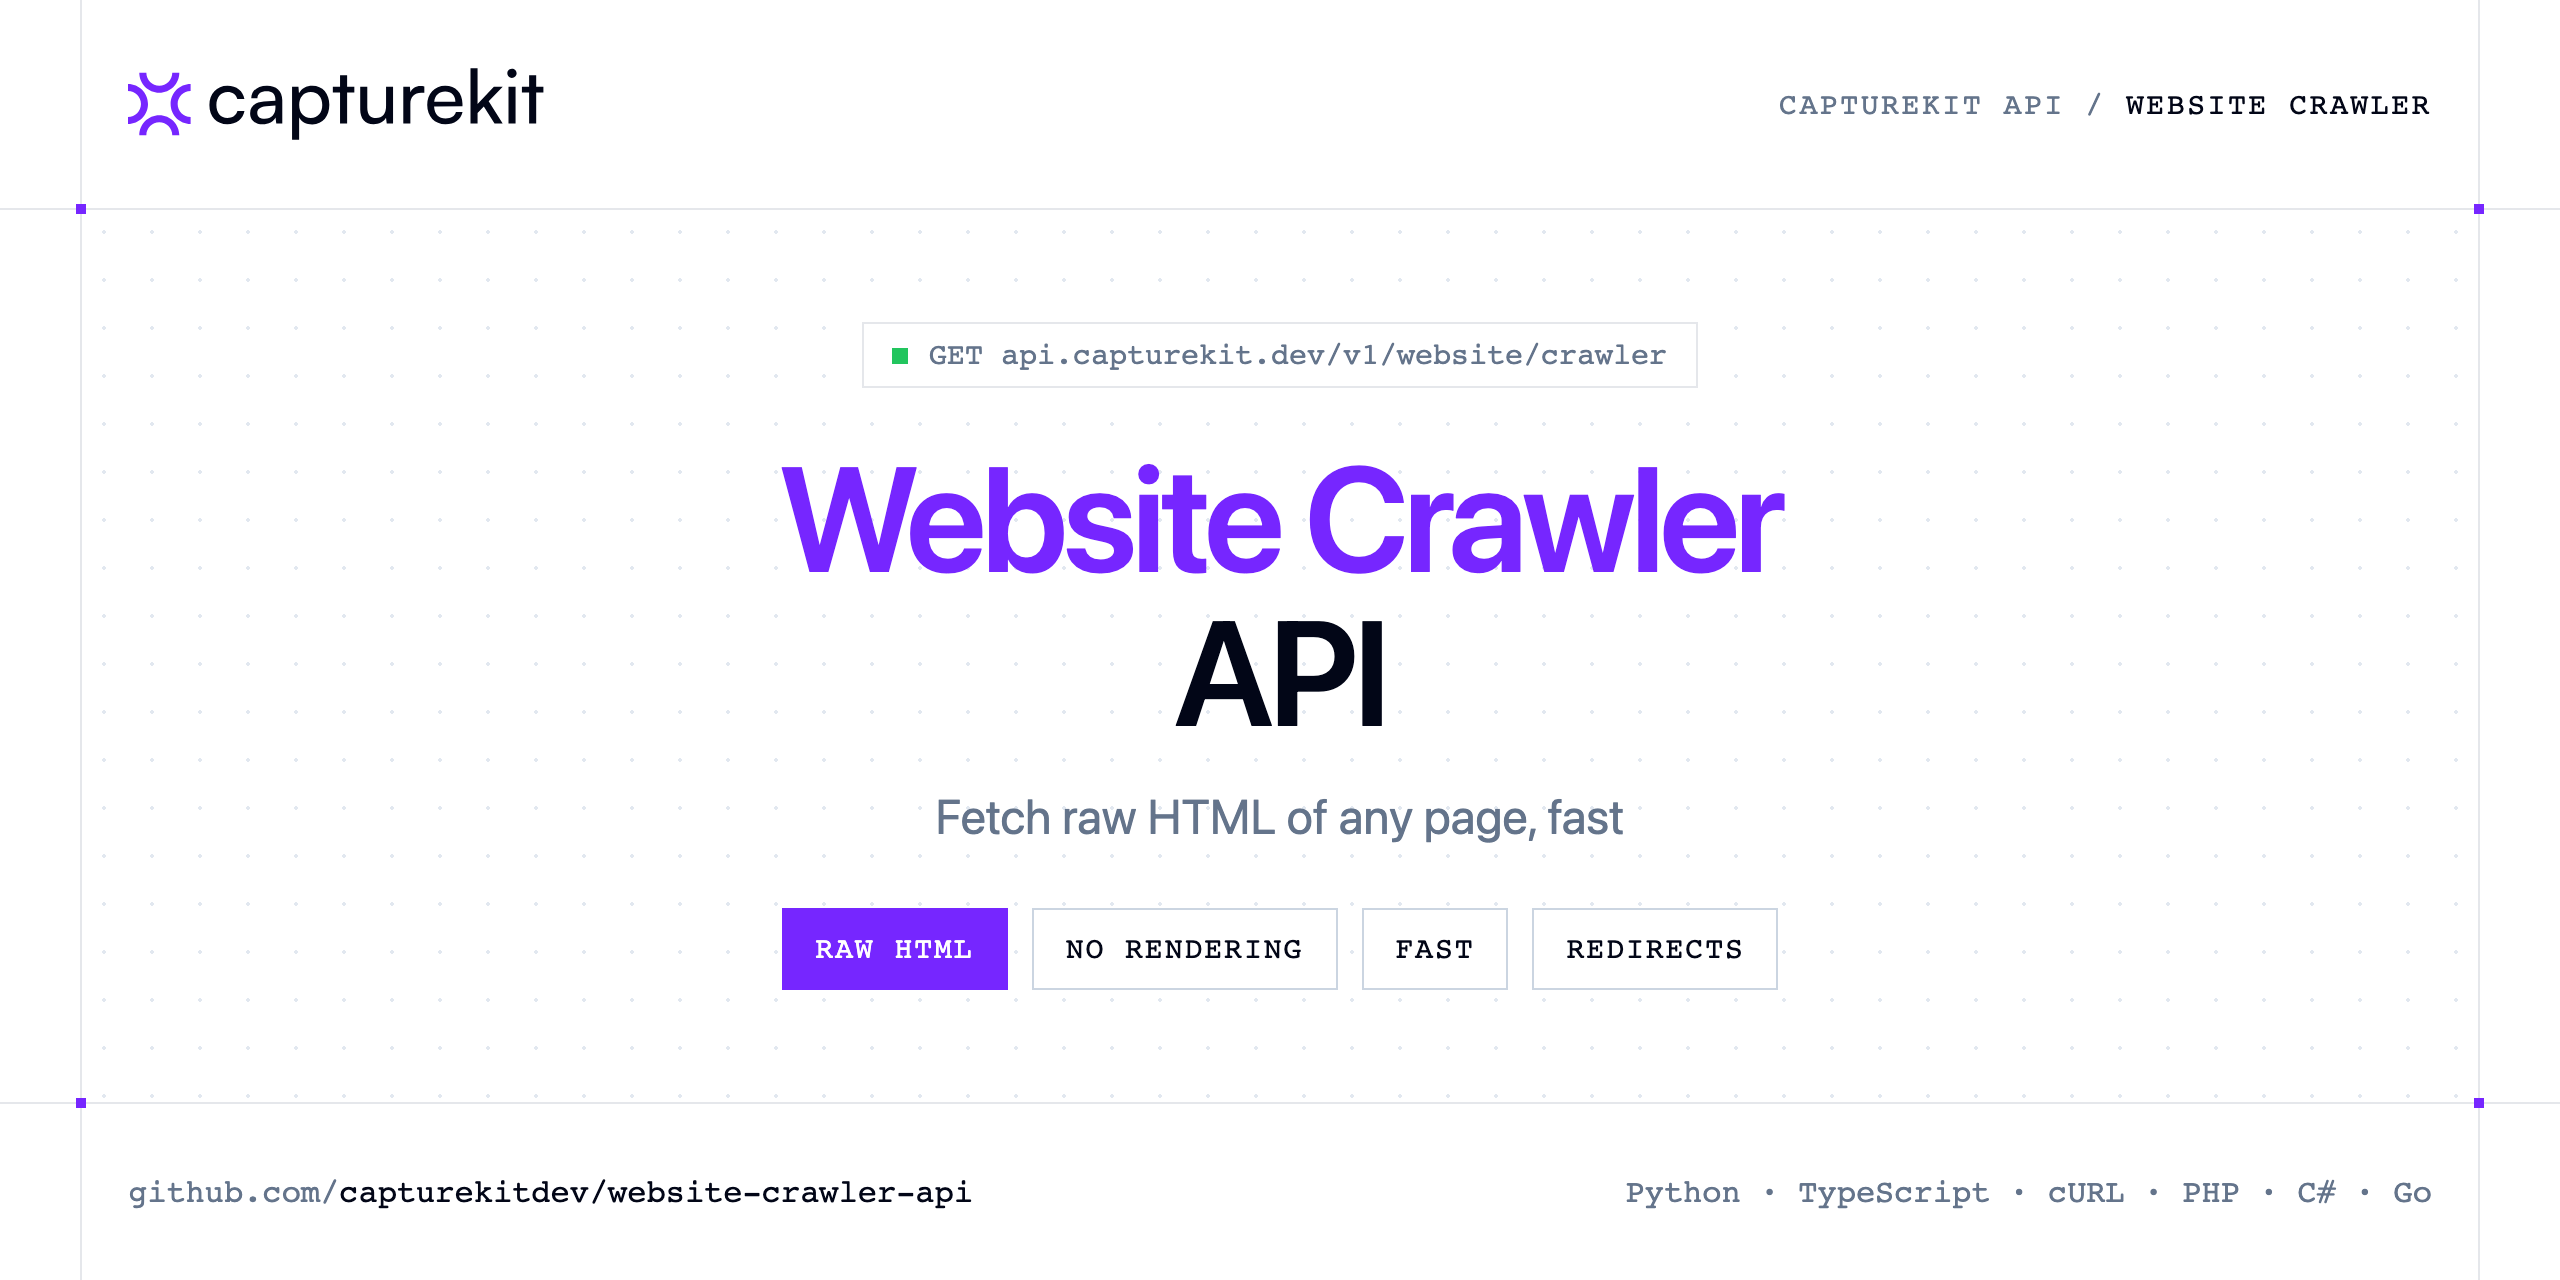
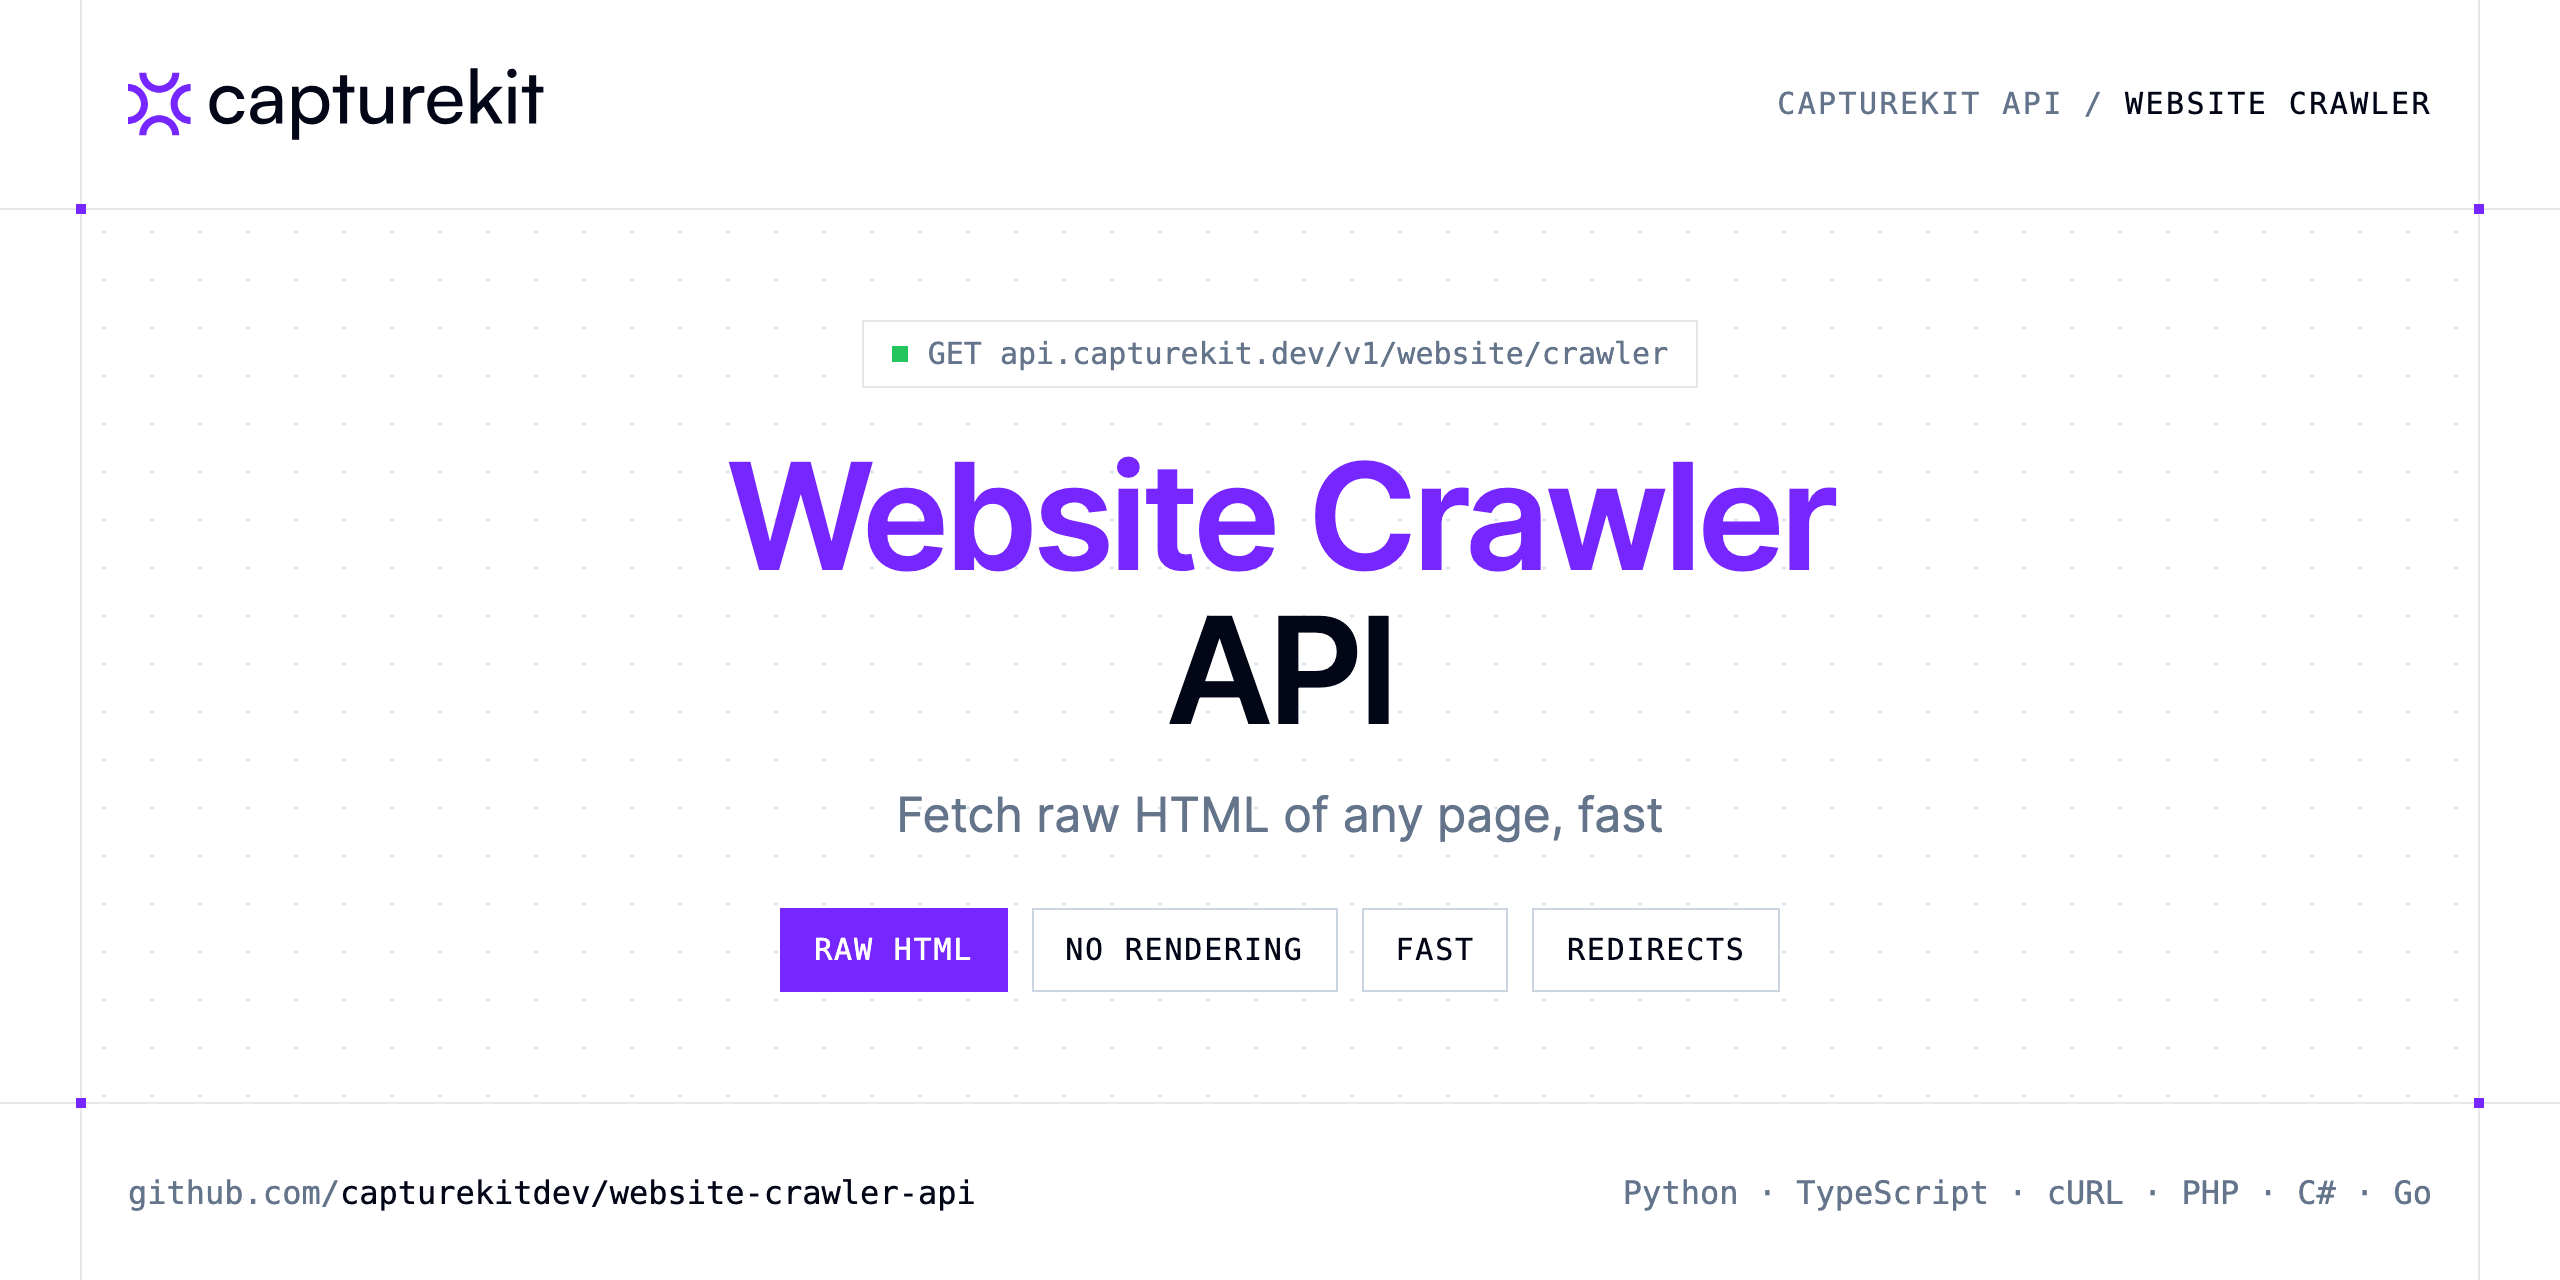
Update Website Crawler API examples and docs

diff --git a/README.md b/README.md
@@ -138,7 +138,7 @@ Any language that can make an HTTP request. This README shows Python and TypeScr
 
 ## Related repositories
 
-- [Screenshot API](https://github.com/capturekitdev/screenshot-api)
+- [Screenshot API](https://github.com/capturekitdev/website-screenshot-api)
 - [Full Page Screenshot API](https://github.com/capturekitdev/full-page-screenshot-api)
 - [Website to PDF API](https://github.com/capturekitdev/website-to-pdf-api)
 - [Mobile Screenshot API](https://github.com/capturekitdev/mobile-screenshot-api)
